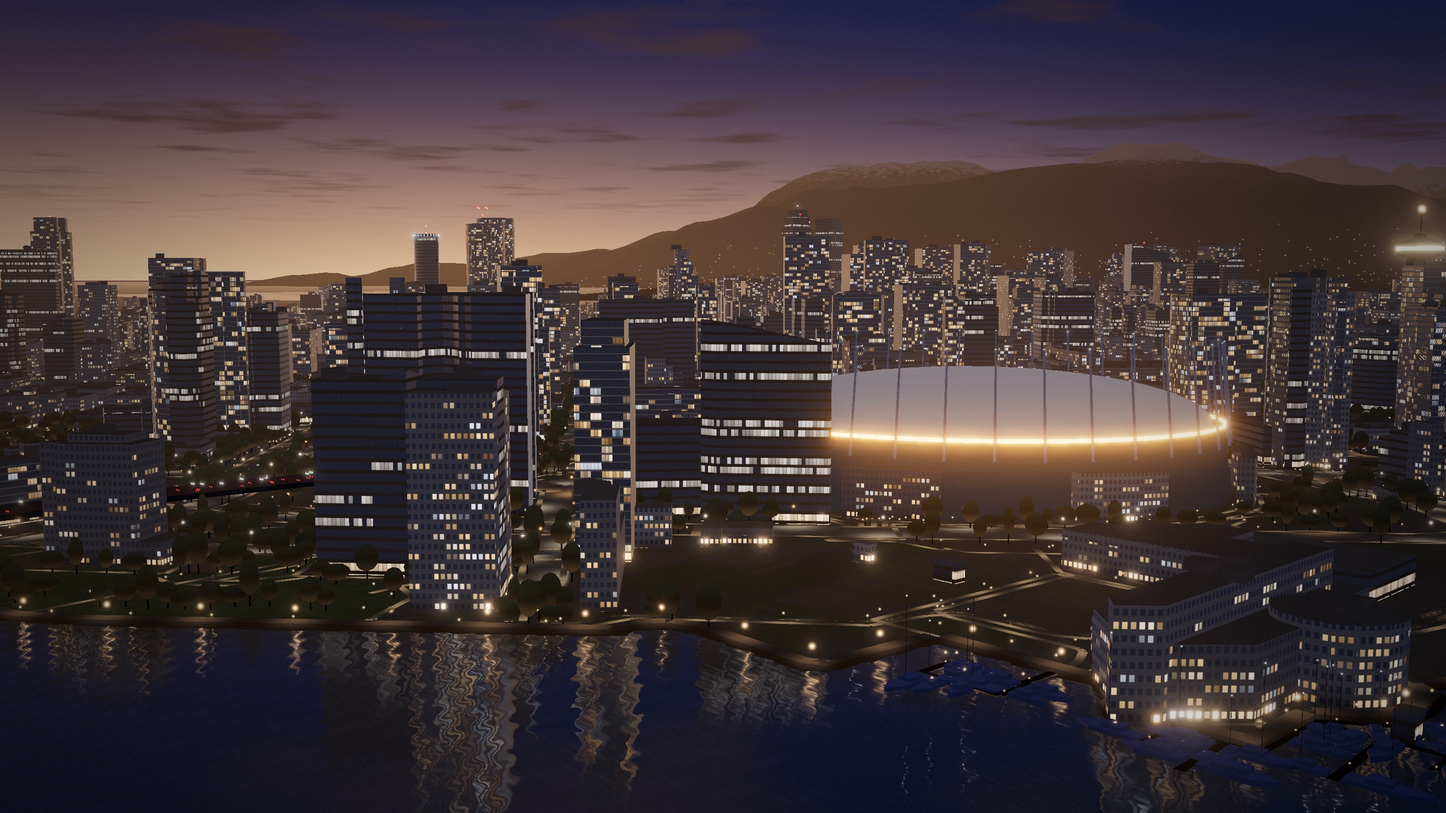
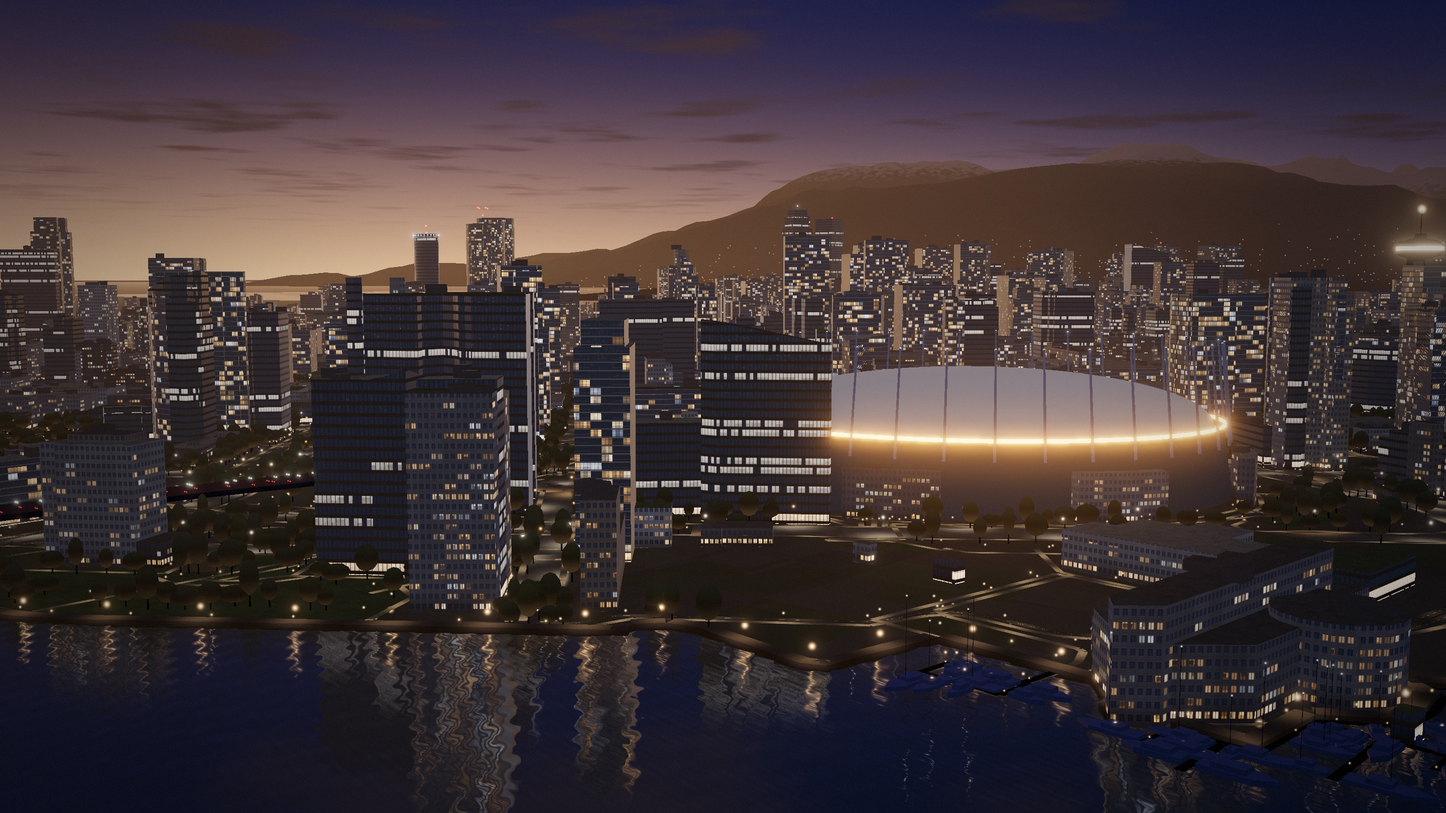
Hero: realistic buildings up close
Lit windows show a room behind the glass (ceiling light, back wall, furniture, curtains;
office floors with panel lights), mullions, sills and recess shadows, weathered and varied
cladding, pane-by-pane glass reflections with the city in them, and varied roofs. Detail
fades out with distance. Posters re-rendered.

diff --git a/src/hero/buildings.js b/src/hero/buildings.js
@@ -67,6 +67,46 @@ export function createFacadeMaterial(uniforms) {
       varying float vKind;
       varying float vTop;
 
+      // A lit room seen through the glass (interior mapping): a box behind the facade, so ceiling, back wall,
+      // side walls and floor shift with the camera instead of the window being a flat lit rectangle.
+      // q: position on the window plane in room units (x along, y up, 0…1); dir: view ray in room space
+      // (x along, y up, z into the room); room: width, height, depth (m).
+      vec3 roomInterior(vec2 q, vec3 dir, vec3 room, vec3 lampCol, float seed, float office) {
+        vec3 p = vec3(q * room.xy, 0.0);
+        vec3 d = sign(dir) * max(abs(dir), vec3(1e-4));
+        vec3 tt = (step(0.0, d) * room - p) / d;
+        float t = min(min(tt.x, tt.y), tt.z);
+        vec3 h = (p + d * t) / room; // hit point, 0…1 in each axis
+        float fall = 1.0 - 0.45 * h.z; // light falls off into the room
+        vec3 col;
+        if (t == tt.y && d.y > 0.0) {
+          // Ceiling: a pool around the light fixture; offices get rows of panel lights.
+          vec2 c = h.xz - vec2(0.25 + 0.5 * fract(seed * 7.3), 0.35);
+          float spot = exp(-dot(c, c) * 14.0);
+          vec2 pg = fract(vec2(h.x * room.x / 2.4, h.z * room.z / 1.8));
+          float panels = step(0.18, pg.x) * step(pg.x, 0.62) * step(0.25, pg.y) * step(pg.y, 0.6);
+          col = lampCol * mix(0.45 + 2.2 * spot, 0.3 + 2.0 * panels, office);
+        } else if (t == tt.y) {
+          // Floor: darker; wood or carpet tone.
+          col = lampCol * mix(vec3(0.22, 0.15, 0.1), vec3(0.14, 0.14, 0.16), office) * (0.6 + 0.6 * fall);
+        } else if (t == tt.z) {
+          // Back wall, with furniture (sofa / cabinet / desks) and sometimes a picture or a doorway.
+          col = lampCol * 0.55 * mix(0.85, 1.0, h.y);
+          float fx = fract(seed * 13.1), fw = 0.18 + 0.25 * fract(seed * 5.7);
+          float furniture = step(abs(h.x - 0.2 - 0.6 * fx), fw) * step(h.y, mix(0.3, 0.28, office) + 0.08 * fract(seed * 3.3));
+          col *= 1.0 - 0.85 * furniture;
+          float pic = (1.0 - office) * step(0.5, fract(seed * 17.0)) * step(abs(h.x - 0.75 + 0.5 * fx), 0.09) * step(abs(h.y - 0.6), 0.08);
+          col = mix(col, lampCol * vec3(0.25, 0.22, 0.3), pic);
+          float door = step(0.6, fract(seed * 23.0)) * step(abs(h.x - 0.85), 0.07) * step(h.y, 0.75);
+          col *= 1.0 - 0.6 * door;
+        } else {
+          // Side walls.
+          col = lampCol * 0.36 * fall;
+          col *= 1.0 - 0.6 * office * step(h.y, 0.3) * step(0.5, fract(h.z * room.z / 2.0)); // desk rows
+        }
+        return col;
+      }
+
       void main() {
         vec3 n = normalize(vNormal);
         vec3 V = normalize(cameraPosition - vWorld);
@@ -80,19 +120,28 @@ export function createFacadeMaterial(uniforms) {
         float ao = mix(0.45, 1.0, smoothstep(0.0, 7.0, vWorld.y));
 
         if (n.y > 0.5) {
-          vec3 roof = vec3(0.016, 0.018, 0.024) * (0.7 + 0.6 * hash12(vec2(vSeed * 91.0, 3.0)));
+          // Roofs: per building dark tar, grey membrane (with seams) or a green roof; patchy up close.
+          float rk = hash12(vec2(vSeed * 47.0, 5.0));
+          float rn = hash12(floor(vWorld.xz / 3.0) + vSeed * 31.0) * 0.5 + hash12(floor(vWorld.xz / 0.7)) * 0.5;
+          vec3 roof = rk < 0.45 ? vec3(0.016, 0.018, 0.024) : rk < 0.88 ? vec3(0.04, 0.042, 0.05) : vec3(0.012, 0.017, 0.012);
+          roof *= (0.75 + 0.5 * hash12(vec2(vSeed * 91.0, 3.0))) * (0.8 + 0.4 * rn);
+          vec2 rf = fwidth(vWorld.xz);
+          float seam = step(0.45, rk) * step(rk, 0.88) * (1.0 - smoothstep(0.04, 0.04 + rf.x, abs(fract(vWorld.x / 1.6) - 0.5) - 0.46));
+          roof *= 1.0 - 0.25 * seam * (1.0 - smoothstep(0.1, 0.4, rf.x));
           gl_FragColor = vec4(applyFog(roof, vWorld), 1.0);
           return;
         }
         // Rooftop equipment: plain walls, no windows.
         if (vKind > 2.5) {
-          vec3 plant = vec3(0.05, 0.052, 0.058) * (0.6 + 0.4 * n.y) * vec3(0.6, 0.66, 0.85);
+          float louvre = 0.85 + 0.15 * step(0.5, fract(vWorld.y * 4.0));
+          vec3 plant = vec3(0.05, 0.052, 0.058) * (0.6 + 0.4 * n.y) * vec3(0.6, 0.66, 0.85) * louvre;
           gl_FragColor = vec4(applyFog(plant, vWorld), 1.0);
           return;
         }
 
         // Facade grid. u along the wall, v up. Panel widths and floor heights by kind.
         vec2 t = normalize(vec2(-n.z, n.x));
+        vec3 T = vec3(t.x, 0.0, t.y);
         float u = dot(vWorld.xz, t);
         float floorH = isConcrete * 3.0 + isResi * 2.9 + isOffice * 3.8;
         float colW = isConcrete * 1.9 + isResi * 1.25 + isOffice * 1.5;
@@ -101,6 +150,8 @@ export function createFacadeMaterial(uniforms) {
         vec2 f = fract(g);
         vec2 fw = fwidth(g);
         vec2 aa = max(fw, vec2(0.001));
+        // How much close-up detail this pixel can show (1 when a window panel spans many pixels).
+        float detail = 1.0 - smoothstep(0.05, 0.22, max(fw.x, fw.y));
 
         // Glazed area inside each cell.
         vec2 lo = isConcrete * vec2(0.2, 0.32) + isResi * vec2(0.04, 0.2) + isOffice * vec2(0.03, 0.3);
@@ -132,40 +183,58 @@ export function createFacadeMaterial(uniforms) {
         vec3 lampCol = r3 < 0.55 ? warm : (r3 < 0.85 ? neutral : cool);
         lampCol = mix(lampCol, mix(neutral, cool, 0.5), isOffice);
         float bright = mix(0.3, 1.2, r2 * r2) * mix(1.0, 0.55, isOffice);
+        // Office floors are one room: every panel on a floor shares the light level.
+        bright = mix(bright, mix(0.45, 0.7, floorRand), isOffice);
         // Blinds: dimmer, faint slats.
         float blinds = step(0.75, hash12(unit + vSeed * 7.0)) * (1.0 - isOffice);
-        bright *= mix(1.0, 0.45 * (0.8 + 0.2 * step(0.5, fract(f.y * 9.0))), blinds);
+        float slats = 0.8 + 0.2 * step(0.5, fract(f.y * 9.0));
         // TV flicker: a few blue-white windows whose brightness jitters.
         float tv = step(0.965, hash12(unit * 3.1 + vSeed * 11.0)) * isResi;
         float flick = 0.55 + 0.45 * hash12(vec2(floor(uTime * 7.0), unit.x + unit.y * 13.0));
         lampCol = mix(lampCol, vec3(0.55, 0.7, 1.0), tv);
         bright = mix(bright, bright * flick, tv);
-        // Ceiling lights: a little brighter toward the top of the window.
-        bright *= mix(0.75, 1.1, f.y);
         lampCol = mix(lampCol, warm, ground * 0.6);
-        vec3 lampEmit = lampCol * bright * uWindowIntensity * lit * (1.0 + ground * 0.15);
+        float emitK = uWindowIntensity * lit * (1.0 + ground * 0.15);
+        // Flat (distant) version of a lit window: ceiling lights make the top a little brighter.
+        vec3 flatRoom = lampCol * mix(0.75, 1.1, f.y);
 
-        // Base materials under blue-hour sky light.
+        // Base materials under blue-hour sky light. Each building gets its own cladding: grey concrete,
+        // warm beige, dark brick-brown or painted white.
         float skyAmb = 0.55 + 0.45 * n.y;
         float westFacing = max(dot(n, sunFlat), 0.0);
-        vec3 concrete = vec3(0.12, 0.12, 0.125) * (0.7 + 0.6 * hash12(vec2(vSeed * 7.0, 1.0)));
+        float pick = hash12(vec2(vSeed * 5.3, 2.0));
+        vec3 clad = pick < 0.45 ? vec3(0.12, 0.12, 0.125) : pick < 0.7 ? vec3(0.14, 0.122, 0.1) : pick < 0.88 ? vec3(0.075, 0.062, 0.055) : vec3(0.17, 0.17, 0.168);
+        vec3 concrete = clad * (0.75 + 0.5 * hash12(vec2(vSeed * 7.0, 1.0)));
+        // Weathering: large faint patches and, up close, rain streaks running down from the sills.
+        concrete *= 0.9 + 0.2 * hash12(floor(vec2(u / 7.0, vWorld.y / 9.0)) + vSeed * 19.0);
+        float streak = hash12(vec2(floor(u / 0.3), vSeed * 41.0));
+        float underSill = m.x * (1.0 - step(lo.y, f.y)) * smoothstep(0.0, lo.y, f.y);
+        concrete *= 1.0 - detail * (0.22 * underSill * streak + 0.06 * streak);
         vec3 wallLit = concrete * skyAmb * vec3(0.55, 0.62, 0.85) + concrete * westWarm * westFacing * 0.2;
-        vec3 slabCol = vec3(0.16, 0.16, 0.165) * skyAmb * vec3(0.6, 0.66, 0.86) + lampEmit * 0.04;
+        // Concrete: a lighter sill under each window and a floor line.
+        float sill = isConcrete * m.x * step(lo.y - 0.05, f.y) * (1.0 - step(lo.y, f.y));
+        float floorLine = isConcrete * (1.0 - smoothstep(0.03 - aa.y, 0.05 + aa.y, f.y));
+        wallLit *= 1.0 + detail * (0.35 * sill - 0.18 * floorLine);
+        vec3 slabCol = vec3(0.16, 0.16, 0.165) * skyAmb * vec3(0.6, 0.66, 0.86) + lampCol * bright * emitK * 0.04;
 
-        vec3 R = reflect(-V, n);
+        // Glass: each pane sits at a slightly different angle, so reflections break up pane by pane.
+        vec2 pr = vec2(hash12(cell * 3.1 + vSeed * 7.0), hash12(cell * 5.7 + vSeed * 3.0)) - 0.5;
+        vec3 np = normalize(n + (T * pr.x * 0.09 + vec3(0.0, pr.y * 0.06, 0.0)) * detail);
+        vec3 R = reflect(-V, np);
         R.y = abs(R.y) * 0.9 + 0.02;
-        float fres = 0.04 + 0.96 * pow(1.0 - max(dot(n, V), 0.0), 5.0);
-        vec3 tint = mix(vec3(0.008, 0.014, 0.02), vec3(0.012, 0.018, 0.016), hash12(vec2(vSeed * 3.0, 9.0)));
+        float fres = 0.04 + 0.96 * pow(1.0 - max(dot(np, V), 0.0), 5.0);
+        vec3 tint = mix(vec3(0.008, 0.014, 0.02), vec3(0.008, 0.018, 0.017), hash12(vec2(vSeed * 3.0, 9.0)));
         vec3 glassCol = tint + skyColor(R) * mix(0.25, 0.9, fres);
+        // The city reflected in the glass: a faint band of distant lit windows near the horizon.
+        float az = atan(R.x, R.z);
+        float cityBand = (1.0 - smoothstep(0.0, 0.12, R.y)) * step(0.9, hash12(floor(vec2(az * 420.0, R.y * 900.0))));
+        glassCol += vec3(1.0, 0.7, 0.4) * cityBand * 0.14 * detail * mix(0.4, 1.0, fres);
 
         vec3 frameCol = mix(wallLit, vec3(0.018, 0.02, 0.025), 1.0 - isConcrete);
         frameCol = mix(frameCol, vec3(0.012, 0.013, 0.016), isOffice); // spandrels
         frameCol *= ao;
         glassCol *= ao;
         slabCol *= ao;
-        vec3 windowCol = glassCol * (1.0 - lit * 0.85) + lampEmit;
-        vec3 near = mix(frameCol, windowCol, isWindow);
-        near = mix(near, slabCol, slab);
 
         // Far away: average instead of aliasing.
         float avgLit = mix(litShare, 0.27, isOffice);
@@ -175,8 +244,49 @@ export function createFacadeMaterial(uniforms) {
         far = mix(far, slabCol * 0.6, isResi * 0.16);
         // Keep individual windows until they're well under a pixel (a little sparkle reads as city lights).
         float farMix = smoothstep(0.7, 1.8, max(fw.x, fw.y));
-        vec3 col = mix(near, far, farMix);
+        vec3 col = far;
 
+        if (farMix < 0.999) {
+          vec3 room = flatRoom;
+          if (lit > 0.5 && detail > 0.001) {
+            // Room behind this window: the unit (several panels wide), one floor high, 4–6 m deep
+            // (open-plan office floors are deeper).
+            vec3 dims = vec3(unitW * colW, floorH, mix(4.0 + 2.0 * r3, 11.0, isOffice));
+            vec2 q = vec2((cell.x - unit.x * unitW + f.x) / unitW, f.y);
+            vec3 dir = vec3(dot(-V, T), -V.y, dot(V, n));
+            vec3 inside = roomInterior(q, dir, dims, lampCol, r1 * 0.37 + r3 * 0.63, isOffice) * 1.25;
+            // Curtains drawn partway in from the sides (homes), with soft folds; the light glows through.
+            float cl = (1.0 - isOffice) * step(0.4, r2) * (0.08 + 0.3 * hash12(unit + 4.0));
+            float cr = (1.0 - isOffice) * step(0.3, r3) * (0.06 + 0.25 * hash12(unit + 9.0));
+            float curtain = max(1.0 - smoothstep(cl - 0.01, cl + 0.01, q.x), smoothstep(1.0 - cr - 0.01, 1.0 - cr + 0.01, q.x));
+            vec3 fabric = lampCol * mix(vec3(0.5, 0.42, 0.34), vec3(0.4, 0.4, 0.42), fract(r1 * 9.0)) * (0.8 + 0.2 * sin(q.x * unitW * colW * 9.0));
+            inside = mix(inside, fabric, curtain);
+            room = mix(flatRoom, inside, detail);
+          }
+          room = mix(room, lampCol * 0.45 * slats, blinds);
+          vec3 lampEmit = room * bright * emitK;
+          // Lit glass still reflects a little; dark glass is mostly reflection.
+          vec3 windowCol = glassCol * (1.0 - lit * 0.75) + lampEmit;
+
+          // Mullions: punched windows split into two panes; condo glass gets a transom near the top;
+          // a recess shadow along the head of punched windows.
+          float mullion = isConcrete * (1.0 - smoothstep(0.012, 0.012 + aa.x, abs(f.x - 0.5)));
+          mullion += isResi * step(0.5, fract(vSeed * 37.0)) * (1.0 - smoothstep(0.012, 0.012 + aa.y, abs(f.y - 0.8)));
+          mullion += isOffice * (1.0 - smoothstep(0.015, 0.015 + aa.x, min(f.x - lo.x, hi.x - f.x)));
+          windowCol = mix(windowCol, frameCol * 0.8 + lampEmit * 0.05, clamp(mullion, 0.0, 1.0) * detail);
+          float recess = isConcrete * smoothstep(hi.y - 0.09, hi.y, f.y) * detail;
+          windowCol *= 1.0 - 0.45 * recess;
+
+          // Condo balconies: a frosted glass railing across the lower part of each floor, with a top rail.
+          float rail = isResi * step(0.16, f.y) * (1.0 - step(0.42, f.y)) * step(0.35, hash12(vec2(unit.x, vSeed * 3.0)));
+          float topRail = isResi * (1.0 - smoothstep(0.008, 0.008 + aa.y, abs(f.y - 0.42))) * step(0.35, hash12(vec2(unit.x, vSeed * 3.0)));
+          windowCol = mix(windowCol, windowCol * 0.7 + skyColor(R) * 0.12, rail * 0.6);
+          windowCol = mix(windowCol, slabCol * 1.2, topRail * detail);
+
+          vec3 near = mix(frameCol, windowCol, isWindow);
+          near = mix(near, slabCol, slab);
+          col = mix(near, far, farMix);
+        }
         gl_FragColor = vec4(applyFog(col, vWorld), 1.0);
       }
     `,

diff --git a/scripts/skyline-lookdev.html b/scripts/skyline-lookdev.html
@@ -65,7 +65,7 @@ try {
       const THREE = await import('three');
       s.scene.traverse((o) => { if (o.userData.signatures) o.material = new THREE.MeshBasicMaterial({ color: 0xff6a00 }); });
     }
-    if (params.get('bearing')) s.aim(+params.get('bearing'), +(params.get('pitch') ?? 0)); // comparison views
+    if (params.get('bearing')) s.look({ bearing: +params.get('bearing'), pitch: +(params.get('pitch') ?? 0), fov: params.get('fov') ? +params.get('fov') : undefined }); // comparison / close-up views
     s.render(+(params.get('time') ?? 3)); // &time=seconds: animation time for the still
     const png = s.renderer.domElement.toDataURL('image/png');
     let bench = null;
